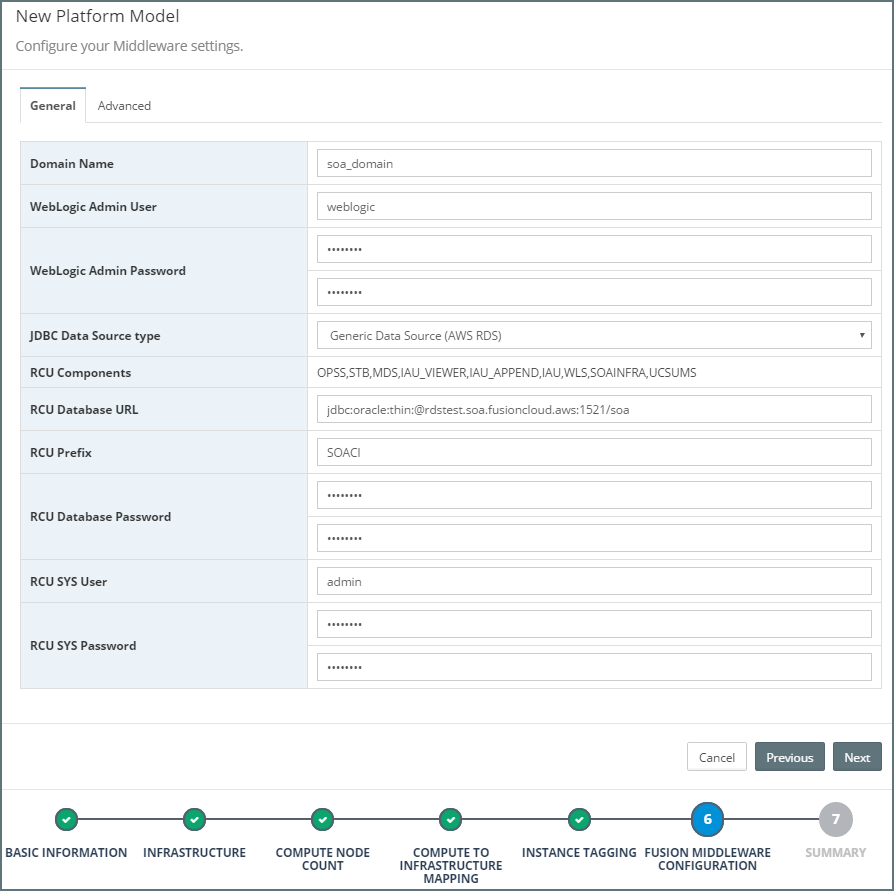
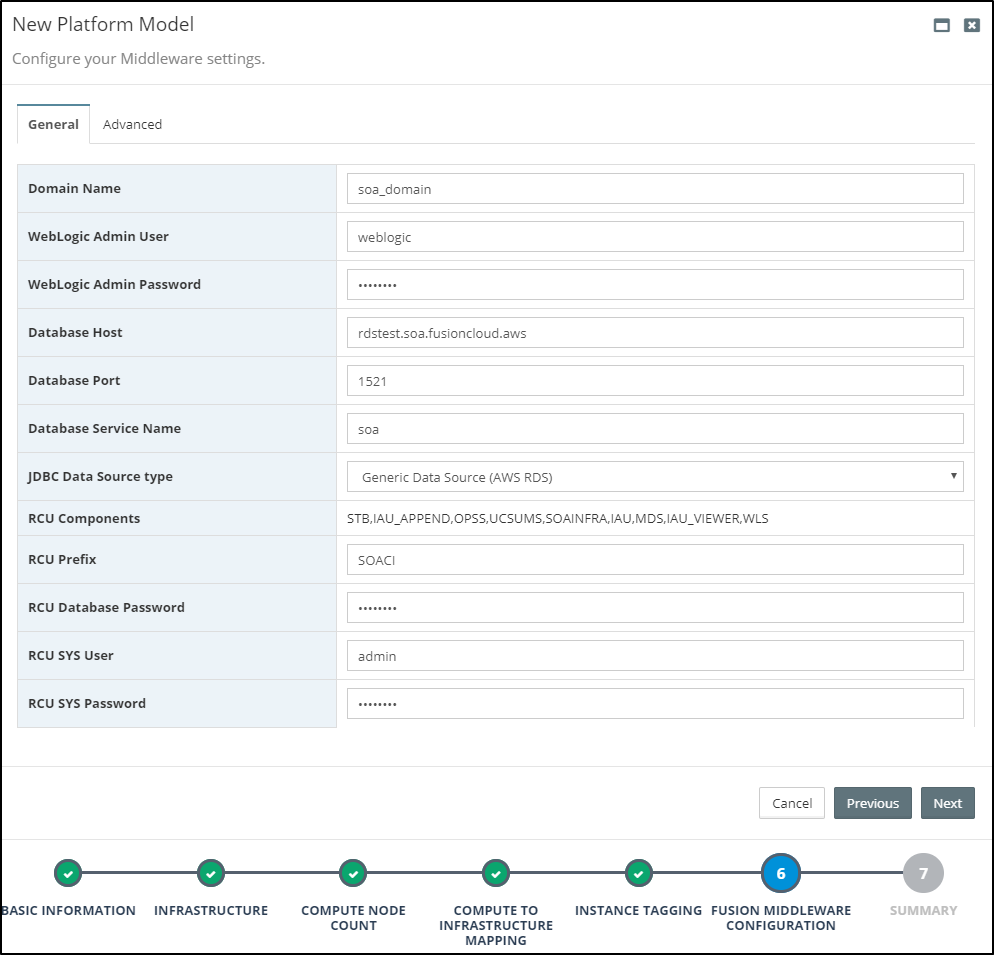
Updated for Platform Model AWS

Changed region(s): [[0.0, 0.0, 1.0, 1.0], [0.0, 0.0, 0.2718, 0.8182], [0.0, 0.8788, 0.0302, 0.9091]]

diff --git a/platform/models/on-demand-aws/README.md b/platform/models/on-demand-aws/README.md
@@ -22,7 +22,7 @@ Once we have entered the basic details about our Platform Model click `Next`.
 
 ### Select Infrastructure Provider
 
-Next, we need to specify the Infrastructure Provider for our Platform Model. From the corresponding drop-down, select Infrastructure Provider of type `AWS On-Demand`. 
+Next, we need to specify the Infrastructure Provider for our Platform Model. From the corresponding drop-down, select Infrastructure Provider of type `AWS On-Demand`.
 
 In the initial dialog, we need to specify the following details about our Platform Model:
 
@@ -73,38 +73,44 @@ For each compute node, in addition, we need to specify:
 
 Once done, click `Next`.
 
+### Tag your AWS instances
+At this step you can optionally provide tags that will be associated with your AWS EC2 instances once they are provisioned.
+
+![](img/AwsModelTagging.png)
+
+Once done, click `Next`.
+
 ### Specify Platform Model Configurations
 
 The final stage is to specify configuration properties that are specific to the Platform Model.
 
 ![](img/AwsModelConfigureGeneral.png)
 
-For the Platform Model we need to specify the following details:
+For the Platform Model, we need to specify the following details:
 
 * **Domain Name** - This is the WebLogic Domain name, it will default to the value specified in the Platform Blueprint, but can be overridden in the Platform Model.
-
 * **WebLogic Admin User** - Enter the WebLogic Admin user, it defaults to Weblogic.
-
 * **Weblogic Admin Password** - Enter the password to be used for the WebLogic Admin User.
-
-* **JDBC Data Source type** - This option is used to specify the Data Source Type for Oracle Middleware specific schemas which are created by the Oracle Middleware Repository Creation Utility (RCU). If using AWS RDS Oracle for RCU, then select `Generic Datasource (RDS)`.
-
-* **RCU Components** - This details the RCU specific schemas that will be created. This is pre-populated based on the Oracle Middleware Components specified in the Platform Blueprint. This is for information purposes only and can't be modified.
-
-* **RCU Database URL** - Enter the database URL for the database that will host the RCU Schemas.
-
-* **RCU Prefix** - Specify the RCU Prefix to be used. The prefix is prepended to and separated from the schema name with an underscore (_) character. The Prefix must be unique among all Platform Instances sharing a given Oracle Database.
-
+* **Database Host** - The host name for the database that will host the RCU schemas. 
+* **Database Port** - The port number for the database.
+* **Database Service Name** - The service name / SID of the database. 
+* **JDBC Data Source type** - This option is used to specify the Data Source Type for Oracle Middleware specific schemas which are created by the Oracle Middleware Repository Creation Utility (RCU). If using AWS RDS Oracle for RCU, then select `Generic Datasource (AWS RDS)`.
+* **RCU Components** - This details the RCU specific schemas that will be created. This is pre-populated based on the Oracle Middleware Components specified in the Platform Blueprint, this is for information purposes only and can't be modified.
+* **RCU Prefix** - Specify the RCU Prefix to be used. The prefix is prepended to and separated from the schema name with an underscore (_) character.
 * **RCU Database Password** Enter the password to be used for each of the schema owners created by RCU.
-
-* **RCU SYS User** - Enter the user name for the RCU database. This should be a username with DBA or SYSDBA privileges, for example SYS. Note that SYS user is not allowed on AWS RDS, so you will need to create an "admin" user as the RDS master user.
-
+* **RCU SYS User** - Enter the user name for the RCU database. This should be a username with DBA or SYSDBA privileges, for example, SYS.
 * **RCU SYS Password** - Enter the password for the RCU Sys User.
 
 > Note: All passwords stored by MyST are encrypted.
 
-#### Override Default Memory and Logging Settings
+#### GridLink and ONS nodes configuration
+In case you are using a GridLink (RAC) database, you can specify the additional property, **ONS Nodes** and set specify the list of ONS nodes following standard Oracle documentation.
 
+![](img/AwsModelConfigureONS.png)
+
+> MyST will auto-calculate the GridLink Database URLs as appropriate which you can change in the model editor later if you wish to override.
+
+#### Override Default Memory and Logging Settings
 It is common to have different JVM Memory Arguments and Logging configurations in upstream dev and test environments. The `Advanced` tab allows you override the settings in the Platform Blueprint.
 
 ![](../img/ModelConfigureAdvanced.png)
